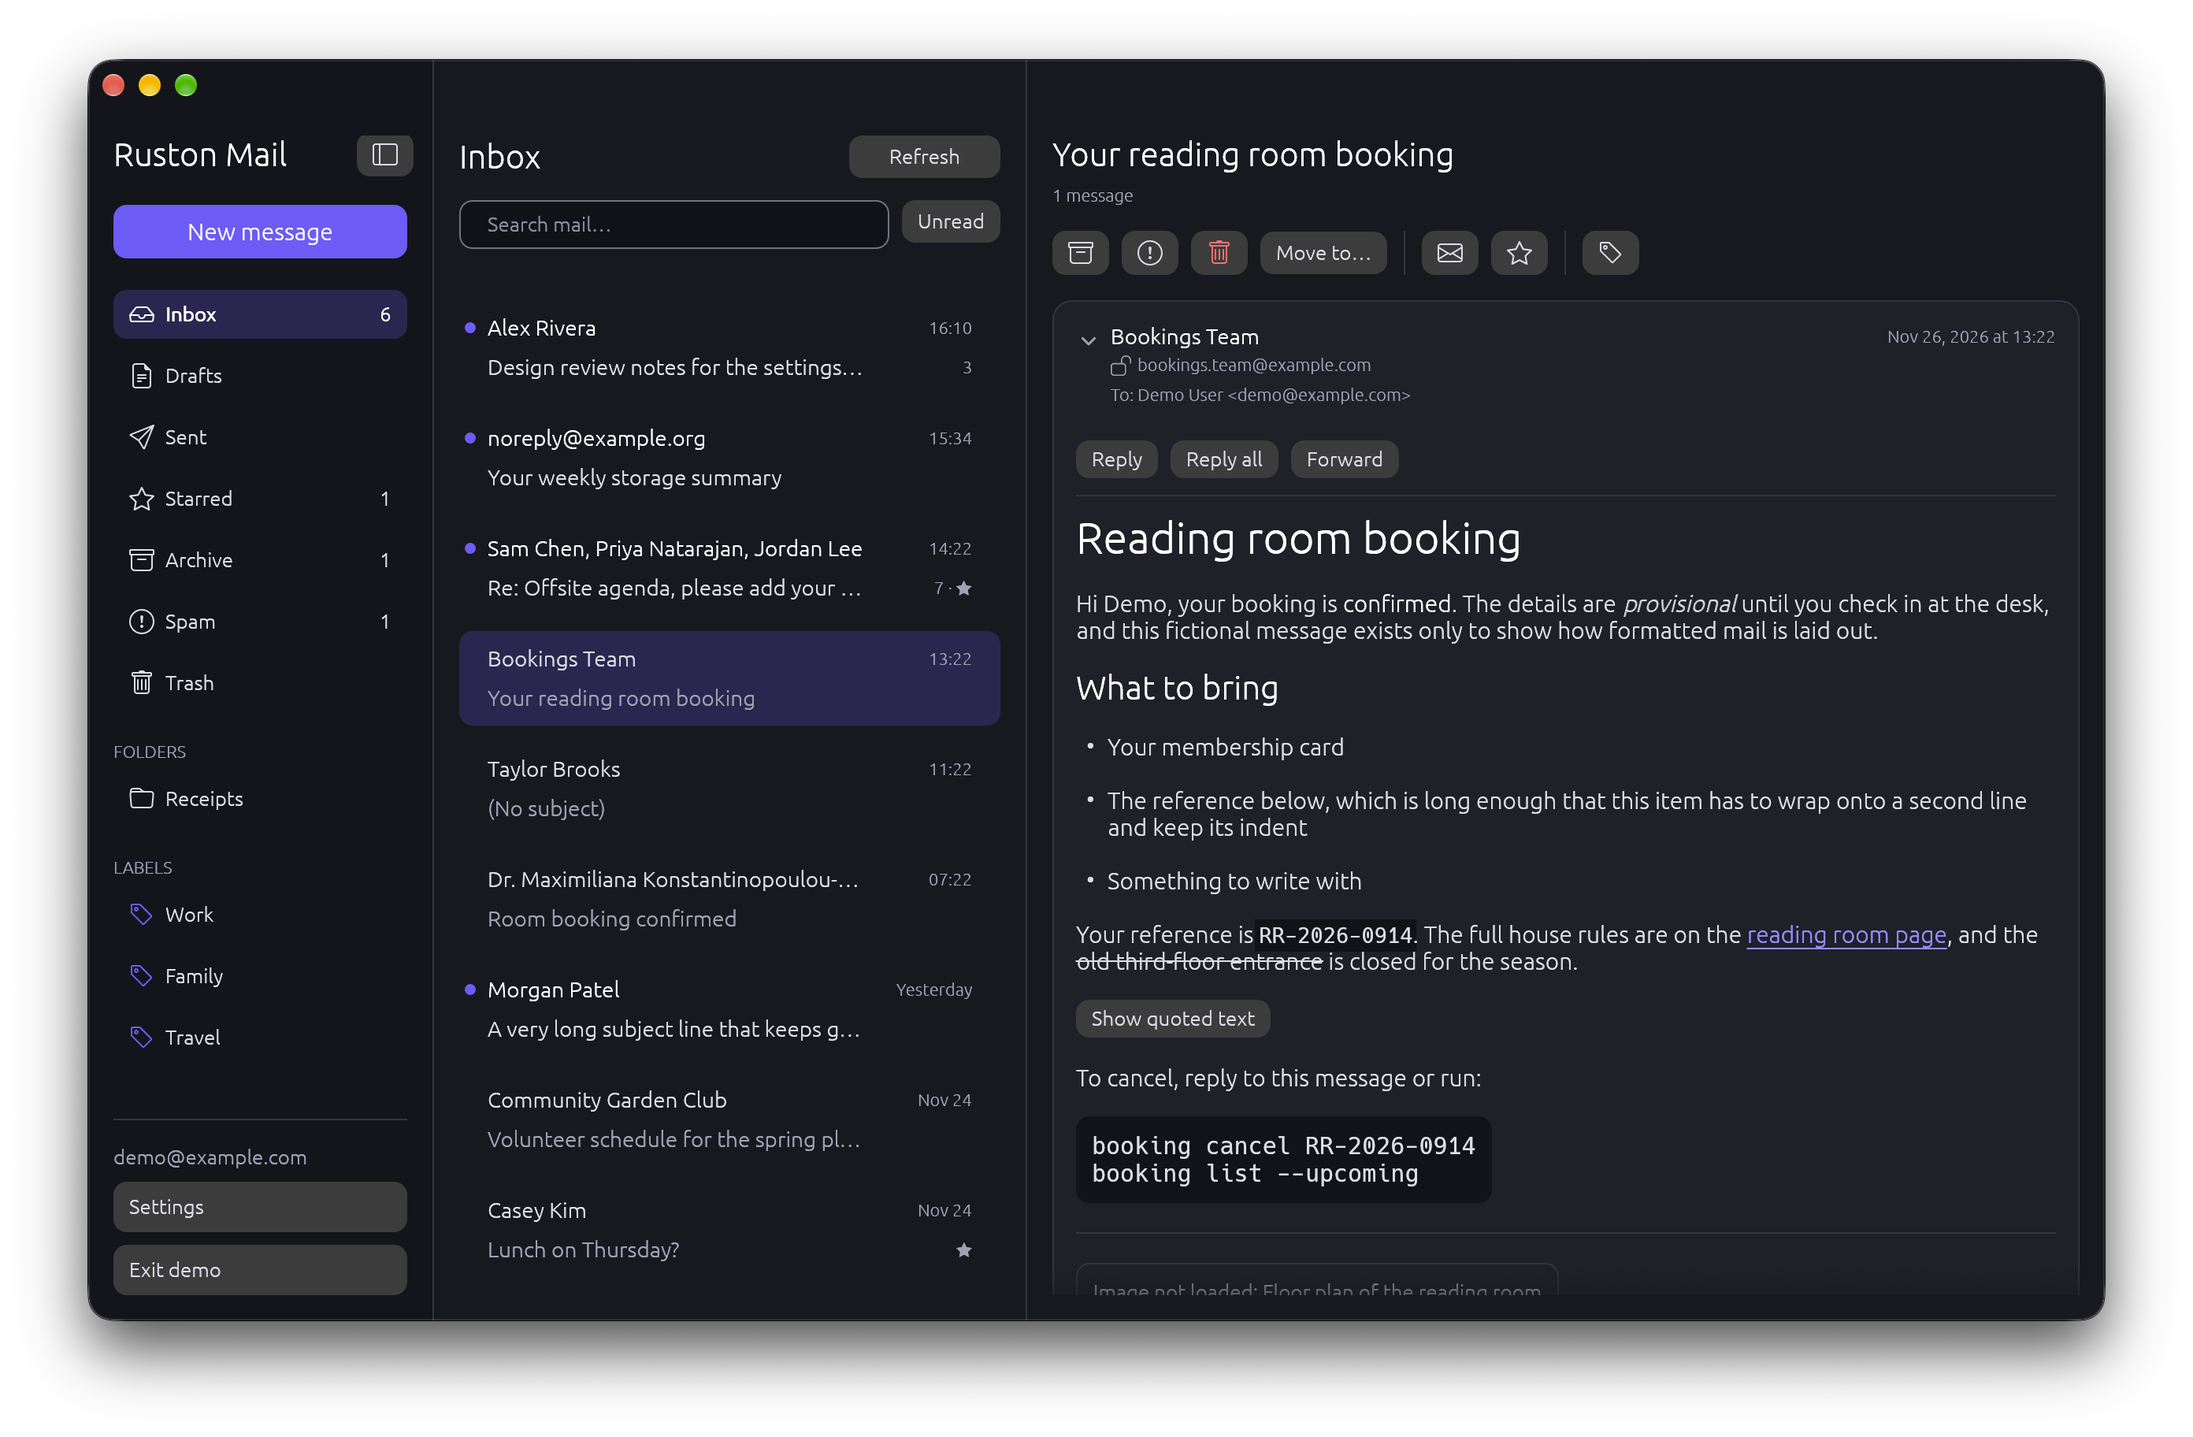
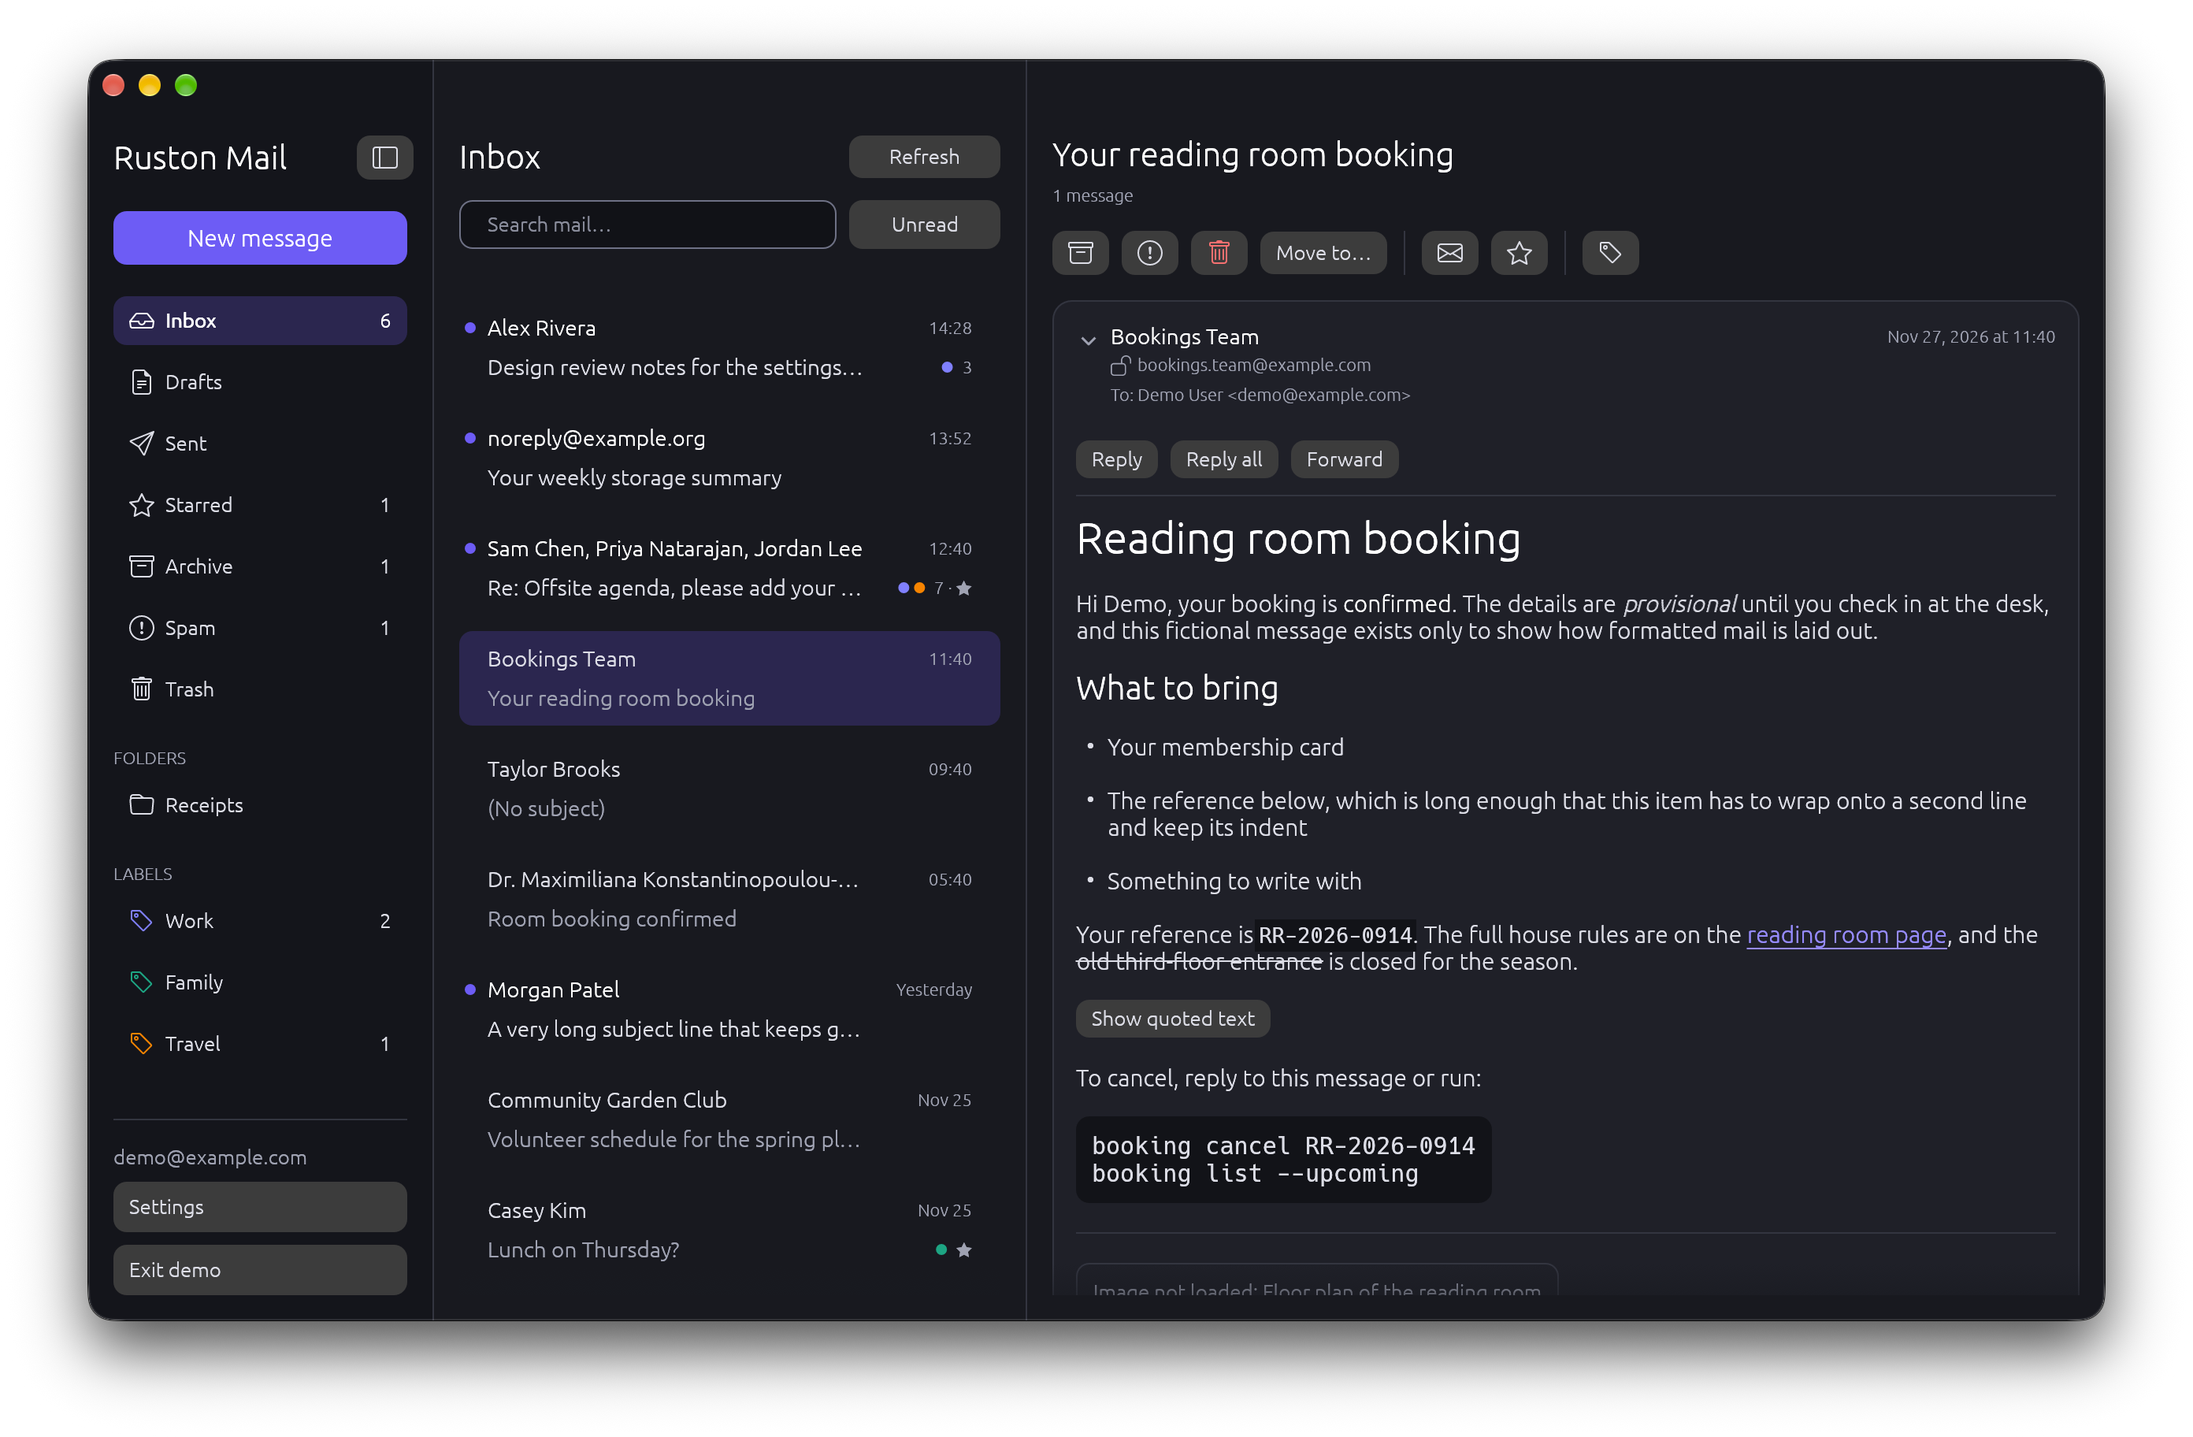
build(packaging): take screenshots of Settings, writing and the terminal
The README showed the main window alone. The demo that takes its
screenshots now goes on to Settings and to a message being written, and
saves each dark and then light, as it did the inbox. It goes back to the
inbox before each one: Settings takes the appearance it shows when it
opens, and asked about unsaved changes when the appearance changed under
it; and a message left open would ask before the window closes.

The script copies the six files, and the development guide says how the
seventh, the terminal interface, is taken by hand. The main window's are
taken again, with the folder and labels the demo now has.

diff --git a/src/ui/readme_screenshots.rs b/src/ui/readme_screenshots.rs
@@ -1,6 +1,7 @@
 //! The README's screenshots, taken by the app itself: the demo's inbox with the
-//! booking newsletter open, dark and then light, as macOS draws the window, with
-//! its rounded corners, colored buttons and shadow on a transparent background.
+//! booking newsletter open, Settings, and a message being written, each dark and
+//! then light, as macOS draws the window, with its rounded corners, colored
+//! buttons and shadow on a transparent background.
 //! Only the `readme-screenshots` feature builds it, and
 //! `packaging/readme-screenshots.sh` runs it.
 
@@ -10,7 +11,7 @@ use std::thread::JoinHandle;
 
 use eframe::egui;
 
-use crate::app::{App, Message};
+use crate::app::{App, ComposeField, Message, SettingsSection};
 use crate::settings::Appearance;
 
 /// The folder the screenshots are saved in; the script sets it.
@@ -39,6 +40,8 @@ pub(super) struct Session {
     step: Step,
     /// When the step began, on egui's clock.
     began: Option<f64>,
+    /// Whether the window has been brought to the step's view.
+    entered: bool,
     retries: u32,
     /// The screenshot being saved, off the interface thread.
     saving: Option<JoinHandle<io::Result<()>>>,
@@ -48,9 +51,71 @@ pub(super) struct Session {
 enum Step {
     /// Waits for the demo's inbox to list the conversation.
     Open,
-    /// Lets the window settle in this appearance, then saves it.
-    Shoot(Appearance),
+    /// Lets the window settle on this view in this appearance, then saves it.
+    Shoot(View, Appearance),
     Finished,
+}
+
+/// What the window shows in a pair of screenshots, in the order they are
+/// taken.
+#[derive(Clone, Copy, Debug, PartialEq)]
+enum View {
+    /// The inbox with the booking open.
+    Mailbox,
+    Settings,
+    /// A message being written, where the booking was.
+    Compose,
+}
+
+impl View {
+    /// The view after this one.
+    fn next(self) -> Option<Self> {
+        match self {
+            Self::Mailbox => Some(Self::Settings),
+            Self::Settings => Some(Self::Compose),
+            Self::Compose => None,
+        }
+    }
+
+    /// What brings the window from the inbox to this view.
+    fn enter(self) -> Vec<Message> {
+        match self {
+            Self::Mailbox => Vec::new(),
+            Self::Settings => vec![
+                Message::ShowSettings(true),
+                Message::ShowSettingsSection(SettingsSection::Appearance),
+            ],
+            Self::Compose => vec![
+                Message::OpenCompose,
+                Message::ComposeChanged(ComposeField::To, "alex.rivera@example.com".into()),
+                Message::ComposeChanged(ComposeField::Subject, "Plans for Thursday".into()),
+                Message::ComposeChanged(
+                    ComposeField::Body,
+                    "Hi Alex,\n\nShall we meet at the café on Thursday at 10? I can bring \
+                     the printed notes so we can go through them together.\n\nBest,\nDemo"
+                        .into(),
+                ),
+            ],
+        }
+    }
+
+    /// What brings the window back to the inbox.
+    fn leave(self) -> Vec<Message> {
+        match self {
+            Self::Mailbox => Vec::new(),
+            Self::Settings => vec![Message::ShowSettings(false)],
+            Self::Compose => vec![Message::DiscardCompose],
+        }
+    }
+
+    /// How its screenshots' names begin.
+    fn name(self) -> &'static str {
+        match self {
+            Self::Mailbox => "main-window",
+            Self::Settings => "settings",
+            Self::Compose => "compose",
+        }
+    }
 }
 
 impl Session {
@@ -61,6 +126,7 @@ impl Session {
             folder: folder.into(),
             step: Step::Open,
             began: None,
+            entered: false,
             retries: 0,
             saving: None,
         })
@@ -79,7 +145,7 @@ impl Session {
         self.began.get_or_insert(now);
         match self.step {
             Step::Open => self.open(context, app, now),
-            Step::Shoot(appearance) => self.shoot(context, frame, app, appearance, now),
+            Step::Shoot(view, appearance) => self.shoot(context, frame, app, view, appearance, now),
             Step::Finished => Vec::new(),
         }
     }
@@ -98,7 +164,7 @@ impl Session {
         ));
         // macOS colors the window's buttons only while the window has focus.
         context.send_viewport_cmd(egui::ViewportCommand::Focus);
-        self.next(Step::Shoot(Appearance::Dark), now);
+        self.next(Step::Shoot(View::Mailbox, Appearance::Dark), now);
         messages
     }
 
@@ -107,18 +173,28 @@ impl Session {
         context: &egui::Context,
         frame: &eframe::Frame,
         app: &App,
+        view: View,
         appearance: Appearance,
         now: f64,
     ) -> Vec<Message> {
         if let Some(saving) = self.saving.take_if(|saving| saving.is_finished()) {
             return match saving.join() {
-                Ok(Ok(())) => self.saved(context, appearance, now),
+                Ok(Ok(())) => self.saved(context, view, appearance, now),
                 Ok(Err(error)) => {
-                    let name = file_name(appearance);
+                    let name = file_name(view, appearance);
                     self.fail(context, &format!("saving {name}: {error}"))
                 }
                 Err(_) => self.fail(context, "saving a screenshot panicked"),
             };
+        }
+        if !self.entered {
+            // A frame after the last view was left, as Settings takes the
+            // appearance it shows when it opens.
+            self.entered = true;
+            self.began = Some(now);
+            let mut messages = vec![Message::SetAppearance(appearance)];
+            messages.extend(view.enter());
+            return messages;
         }
         if self.saving.is_some() || self.waited(now) < SETTLE {
             return Vec::new();
@@ -142,7 +218,7 @@ impl Session {
         }
         match window_number(frame) {
             Ok(window) => {
-                let path = self.folder.join(file_name(appearance));
+                let path = self.folder.join(file_name(view, appearance));
                 self.saving = Some(std::thread::spawn(move || save_window(window, &path)));
                 Vec::new()
             }
@@ -150,19 +226,28 @@ impl Session {
         }
     }
 
-    /// After a screenshot is saved: the light one next, or the end.
-    fn saved(&mut self, context: &egui::Context, appearance: Appearance, now: f64) -> Vec<Message> {
-        match appearance {
-            Appearance::Dark => {
-                self.next(Step::Shoot(Appearance::Light), now);
-                vec![Message::SetAppearance(Appearance::Light)]
-            }
-            Appearance::Light => {
+    /// After a screenshot is saved: back to the inbox, and then the view's
+    /// light one, the next view's dark one, or the end.
+    fn saved(
+        &mut self,
+        context: &egui::Context,
+        view: View,
+        appearance: Appearance,
+        now: f64,
+    ) -> Vec<Message> {
+        let next = match appearance {
+            Appearance::Dark => Some((view, Appearance::Light)),
+            Appearance::Light => view.next().map(|next| (next, Appearance::Dark)),
+        };
+        match next {
+            Some((view, appearance)) => self.next(Step::Shoot(view, appearance), now),
+            None => {
                 self.step = Step::Finished;
                 context.send_viewport_cmd(egui::ViewportCommand::Close);
-                Vec::new()
             }
         }
+        // A message left open would ask before the window closes.
+        view.leave()
     }
 
     /// Closes the window without the screenshots; the script reports them
@@ -177,6 +262,7 @@ impl Session {
     fn next(&mut self, step: Step, now: f64) {
         self.step = step;
         self.began = Some(now);
+        self.entered = false;
         self.retries = 0;
     }
 
@@ -209,11 +295,12 @@ fn opening(app: &App) -> Option<Vec<Message>> {
     ])
 }
 
-fn file_name(appearance: Appearance) -> &'static str {
-    match appearance {
-        Appearance::Dark => "main-window-dark.png",
-        Appearance::Light => "main-window-light.png",
-    }
+fn file_name(view: View, appearance: Appearance) -> String {
+    let appearance = match appearance {
+        Appearance::Dark => "dark",
+        Appearance::Light => "light",
+    };
+    format!("{}-{appearance}.png", view.name())
 }
 
 /// The number macOS's window server knows the window by.
@@ -343,8 +430,9 @@ mod tests {
         assert_eq!(without_metadata(&png[..png.len() - 12]), None, "no end");
     }
 
-    #[test]
-    fn the_readme_view_opens_the_demos_booking_in_the_dark_appearance() {
+    /// The demo with the README's view set up, starting from the light
+    /// appearance.
+    fn readme_view() -> App {
         let mut settings = Settings::default();
         settings.appearance = Appearance::Light;
         let (mut app, _) = App::boot(true, settings);
@@ -355,13 +443,56 @@ mod tests {
             crate::mail::demo::now(),
         );
         let _ = app.update(Message::ConversationsLoaded(1, page));
-
         for message in opening(&app).expect("the demo's inbox lists the booking") {
             let _ = app.update(message);
         }
+        app
+    }
+
+    #[test]
+    fn the_readme_view_opens_the_demos_booking_in_the_dark_appearance() {
+        let app = readme_view();
 
         let open = app.mailbox().unwrap().selected_summary();
         assert_eq!(open.and_then(|row| row.subject.as_deref()), Some(SUBJECT));
         assert_eq!(app.settings().appearance, Appearance::Dark);
+    }
+
+    #[test]
+    fn each_view_is_entered_from_the_inbox_and_left_for_it() {
+        let mut app = readme_view();
+        let mut view = Some(View::Mailbox);
+        let mut names = Vec::new();
+
+        while let Some(shown) = view {
+            for message in shown.enter() {
+                let _ = app.update(message);
+            }
+            assert_eq!(app.showing_settings(), shown == View::Settings, "{shown:?}");
+            let subject = app
+                .compose()
+                .map(|compose| compose.field(ComposeField::Subject));
+            assert_eq!(
+                subject,
+                (shown == View::Compose).then_some("Plans for Thursday"),
+                "{shown:?}"
+            );
+            for message in shown.leave() {
+                let _ = app.update(message);
+            }
+            assert!(!app.showing_settings(), "{shown:?}");
+            assert!(app.compose().is_none(), "{shown:?}");
+            names.push(file_name(shown, Appearance::Dark));
+            view = shown.next();
+        }
+
+        assert_eq!(
+            names,
+            [
+                "main-window-dark.png",
+                "settings-dark.png",
+                "compose-dark.png"
+            ]
+        );
     }
 }

diff --git a/docs/DEVELOPMENT.md b/docs/DEVELOPMENT.md
@@ -422,10 +422,11 @@ rm assets/macos/ruston-mail.icns   # the next package.sh run rebuilds it
 
 ## README screenshots
 
-The README shows the main window from `assets/screenshots/`: the demo's inbox
-with a conversation open, dark and light, as macOS draws the window, with its
-rounded corners, colored buttons and shadow. When the window looks different,
-take them again on a Mac with a Retina display:
+The README shows the app from `assets/screenshots/`: the demo's inbox with a
+conversation open, Settings, and a message being written, each dark and light,
+as macOS draws the window, with its rounded corners, colored buttons and
+shadow. When one of them looks different, take them again on a Mac with a
+Retina display:
 
 ```sh
 packaging/readme-screenshots.sh
@@ -434,10 +435,16 @@ packaging/readme-screenshots.sh
 It builds the app with the `readme-screenshots` feature, which no release turns
 on, in `target/readme-screenshots`, and starts the demo with a home directory of
 its own, so your settings stay as they are. The window takes the README's size,
-opens the conversation, saves itself dark and then light with `screencapture`,
-keeping only each PNG's picture and color, and closes; the script then copies
-both over the old ones. Leave the window in front until it closes: one without
-focus shows gray buttons, and the script gives up after two minutes.
+opens the conversation, and saves itself dark and then light with
+`screencapture`, keeping only each PNG's picture and color. It does the same
+for Settings and for a message being written, going back to the inbox before
+each, and closes; the script then copies the six files over the old ones.
+Leave the window in front until it closes: one without focus shows gray
+buttons, and the script gives up after two minutes.
+
+`terminal.png`, the terminal interface, is taken by hand: run
+`ruston-cli --demo tui` in a terminal of 112 columns and 32 rows, open a
+conversation, and capture the window with Shift-Command-4 and then Space.
 
 ## Desktop installation (Linux)
 

diff --git a/docs/ARCHITECTURE.md b/docs/ARCHITECTURE.md
@@ -137,9 +137,9 @@ CLI:     parser -> dispatch -> command handler -> ruston-core -> Proton API
   README's screenshots for
   [`packaging/readme-screenshots.sh`](../packaging/readme-screenshots.sh). In
   the demo, `logic` moves it a frame at a time: it opens the booking
-  newsletter and saves the window dark and then light with macOS's
-  `screencapture`, off the interface thread, keeping only each PNG's picture
-  and color chunks.
+  newsletter, then Settings and a message being written, and saves each dark
+  and then light with macOS's `screencapture`, off the interface thread,
+  keeping only each PNG's picture and color chunks.
   `raw_input_hook` keeps the mouse and keys away meanwhile.
 - On macOS, [`ui/macos.rs`](../src/ui/macos.rs) measures the root window's
   traffic lights with eframe's `WindowChromeMetrics` on each logic pass.

diff --git a/CONTRIBUTING.md b/CONTRIBUTING.md
@@ -17,8 +17,8 @@ Thanks for helping with Ruston Mail. The
 3. Review `docs/ARCHITECTURE.md` for **every change**. Update it in the same
    change whenever ownership, an important flow, persistence, or a path in its
    navigation table changes. Update README or the user and privacy guides when
-   their claims change, and take the README's screenshots again when the main
-   window looks different (see the
+   their claims change, and take the README's screenshots again when what
+   they show looks different (see the
    [development guide](docs/DEVELOPMENT.md#readme-screenshots)). A change with
    no architectural impact needs no artificial architecture edit.
 4. Run the relevant checks. In the pull request, describe the affected
